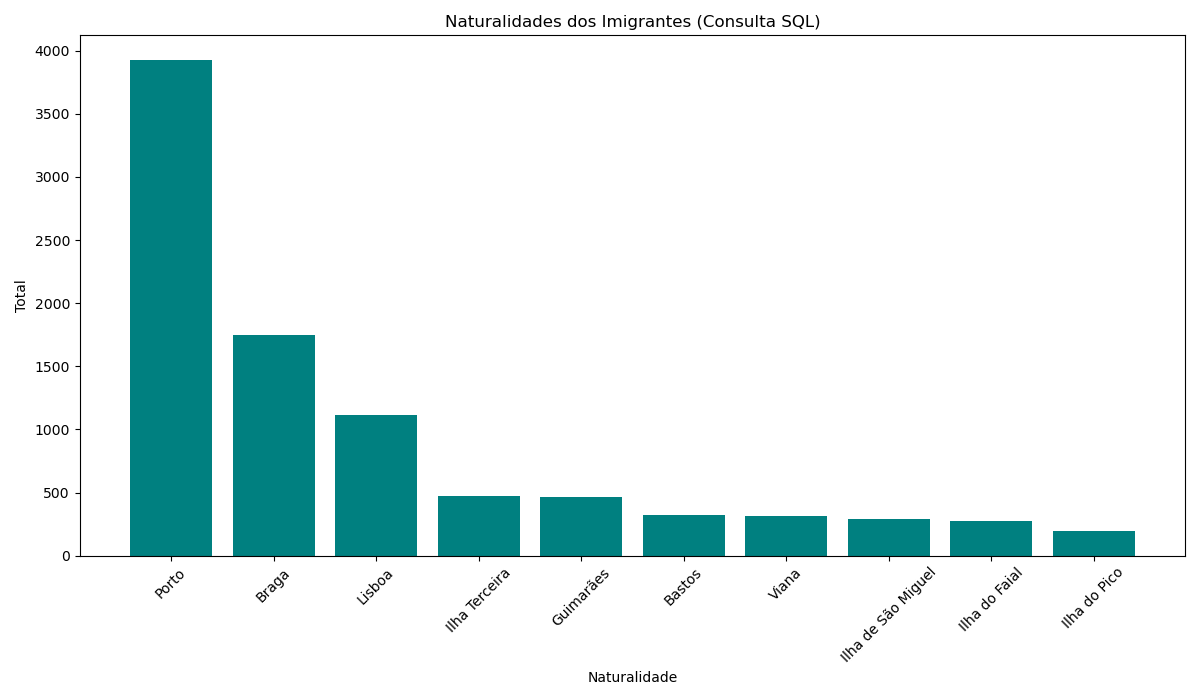
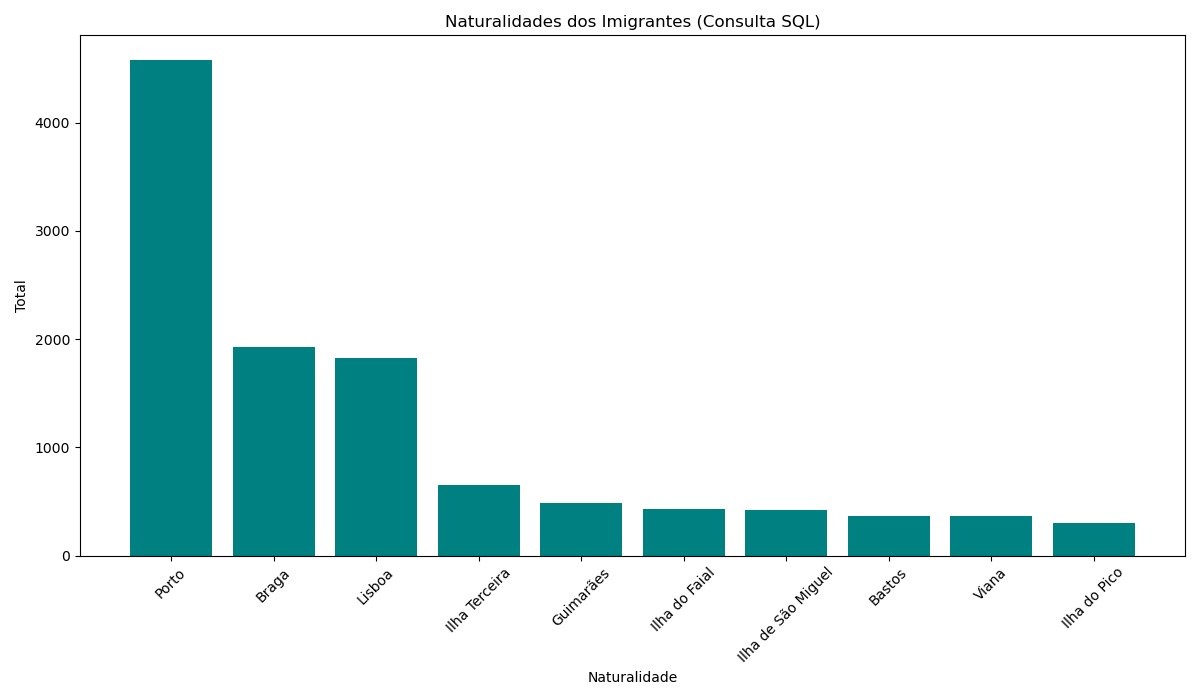
¨T4¨

diff --git a/7Semestre/ciencia_de_dados/T4/regressao_logistica.py b/7Semestre/ciencia_de_dados/T4/regressao_logistica.py
@@ -1,0 +1,50 @@
+import numpy as np
+import matplotlib.pyplot as plt
+import seaborn as sns
+from sklearn.model_selection import train_test_split
+from sklearn.preprocessing import StandardScaler
+from sklearn.linear_model import LogisticRegression
+from sklearn.metrics import accuracy_score, confusion_matrix
+
+def executar_regressao_logistica(df):
+    print("\n--- 3. Regressão Logística ---")
+    X = df[['IDADE']]
+    y = df['IS_SOLTEIRO']
+
+    X_train, X_test, y_train, y_test = train_test_split(X, y, test_size=0.3, random_state=42)
+    
+    scaler = StandardScaler()
+    X_train_scaled = scaler.fit_transform(X_train)
+    X_test_scaled = scaler.transform(X_test)
+
+    modelo = LogisticRegression()
+    modelo.fit(X_train_scaled, y_train)
+    y_pred = modelo.predict(X_test_scaled)
+    
+    acc = accuracy_score(y_test, y_pred)
+    print(f"Acurácia: {acc:.4f}")
+
+    X_test_sorted = np.sort(X_test['IDADE'].values)
+    X_test_sorted_scaled = scaler.transform(X_test_sorted.reshape(-1, 1))
+    probabilidades = modelo.predict_proba(X_test_sorted_scaled)[:, 1]
+
+    plt.figure(figsize=(10, 6))
+    plt.scatter(X_test['IDADE'], y_test, color='blue', alpha=0.1, label='Dados Reais (0=Não Solteiro, 1=Solteiro)')
+    plt.plot(X_test_sorted, probabilidades, color='red', linewidth=2, label='Probabilidade de ser Solteiro')
+    plt.title('Regressão Logística: Probabilidade de ser Solteiro por Idade')
+    plt.xlabel('Idade')
+    plt.ylabel('Probabilidade / Classe')
+    plt.legend()
+    plt.grid(True, linestyle='--', alpha=0.7)
+    plt.savefig('1regressao_logistica_curva.png')
+    plt.close()
+    
+    cm = confusion_matrix(y_test, y_pred)
+    plt.figure(figsize=(6, 5))
+    sns.heatmap(cm, annot=True, fmt='d', cmap='Blues', xticklabels=['Outro', 'Solteiro'], yticklabels=['Outro', 'Solteiro'])
+    plt.title('Regressão Logística: Matriz de Confusão')
+    plt.ylabel('Real')
+    plt.xlabel('Previsto')
+    plt.savefig('1regressao_logistica_matriz.png')
+    plt.close()
+    print("Gráficos de Regressão Logística salvos.")

diff --git a/7Semestre/ciencia_de_dados/T4/regressao_linear_multipla.py b/7Semestre/ciencia_de_dados/T4/regressao_linear_multipla.py
@@ -1,0 +1,34 @@
+import matplotlib.pyplot as plt
+from sklearn.model_selection import train_test_split
+from sklearn.preprocessing import StandardScaler
+from sklearn.linear_model import LinearRegression
+from sklearn.metrics import mean_squared_error, r2_score
+
+def executar_regressao_multipla(df):
+    print("\n--- 2. Regressão Linear Múltipla ---")
+    X = df[['ANO_CHEGADA', 'ANO_REGISTRO']]
+    y = df['IDADE']
+
+    X_train, X_test, y_train, y_test = train_test_split(X, y, test_size=0.3, random_state=42)
+    
+    scaler = StandardScaler()
+    X_train_scaled = scaler.fit_transform(X_train)
+    X_test_scaled = scaler.transform(X_test)
+
+    modelo = LinearRegression()
+    modelo.fit(X_train_scaled, y_train)
+    y_pred = modelo.predict(X_test_scaled)
+    
+    print(f"MSE: {mean_squared_error(y_test, y_pred):.2f}")
+    print(f"R²: {r2_score(y_test, y_pred):.4f}")
+
+    plt.figure(figsize=(10, 6))
+    plt.scatter(y_test, y_pred, color='purple', alpha=0.5)
+    plt.plot([y_test.min(), y_test.max()], [y_test.min(), y_test.max()], 'k--', lw=2)
+    plt.title('Regressão Múltipla: Valores Reais vs Previsões (Idade)')
+    plt.xlabel('Idade Real')
+    plt.ylabel('Idade Prevista')
+    plt.grid(True, linestyle='--', alpha=0.7)
+    plt.savefig('1regressao_multipla.png')
+    plt.close()
+    print("Gráfico 'regressao_multipla.png' salvo.")

diff --git a/7Semestre/ciencia_de_dados/T4/knn.py b/7Semestre/ciencia_de_dados/T4/knn.py
@@ -1,0 +1,35 @@
+import matplotlib.pyplot as plt
+import seaborn as sns
+from sklearn.model_selection import train_test_split
+from sklearn.preprocessing import StandardScaler
+from sklearn.neighbors import KNeighborsClassifier
+from sklearn.metrics import accuracy_score, confusion_matrix
+
+def executar_knn(df):
+    print("\n--- 4. KNN (K-Nearest Neighbors) ---")
+    X = df[['IDADE', 'ANO_CHEGADA']]
+    y = df['IS_SOLTEIRO']
+
+    X_train, X_test, y_train, y_test = train_test_split(X, y, test_size=0.3, random_state=42)
+    
+    scaler = StandardScaler()
+    X_train_scaled = scaler.fit_transform(X_train)
+    X_test_scaled = scaler.transform(X_test)
+
+    modelo = KNeighborsClassifier(n_neighbors=5)
+    modelo.fit(X_train_scaled, y_train)
+    y_pred = modelo.predict(X_test_scaled)
+    
+    acc = accuracy_score(y_test, y_pred)
+    print(f"Acurácia: {acc:.4f}")
+
+    cm = confusion_matrix(y_test, y_pred)
+    plt.figure(figsize=(6, 5))
+    sns.heatmap(cm, annot=True, fmt='d', cmap='Greens', xticklabels=['Outro', 'Solteiro'], yticklabels=['Outro', 'Solteiro'])
+    plt.title(f'KNN (K=5): Matriz de Confusão\nAcurácia: {acc:.2%}')
+    plt.ylabel('Real')
+    plt.xlabel('Previsto')
+    plt.tight_layout()
+    plt.savefig('1knn_matriz.png')
+    plt.close()
+    print("Gráfico 'knn_matriz.png' salvo.")

diff --git a/7Semestre/ciencia_de_dados/T4/regressao_linear_simples.py b/7Semestre/ciencia_de_dados/T4/regressao_linear_simples.py
@@ -1,0 +1,30 @@
+import matplotlib.pyplot as plt
+from sklearn.model_selection import train_test_split
+from sklearn.linear_model import LinearRegression
+from sklearn.metrics import mean_squared_error, r2_score
+
+def executar_regressao_simples(df):
+    print("\n--- 1. Regressão Linear Simples ---")
+    X = df[['ANO_CHEGADA']]
+    y = df['IDADE']
+
+    X_train, X_test, y_train, y_test = train_test_split(X, y, test_size=0.3, random_state=42)
+    
+    modelo = LinearRegression()
+    modelo.fit(X_train, y_train)
+    y_pred = modelo.predict(X_test)
+    
+    print(f"MSE: {mean_squared_error(y_test, y_pred):.2f}")
+    print(f"R²: {r2_score(y_test, y_pred):.4f}")
+
+    plt.figure(figsize=(10, 6))
+    plt.scatter(X_test, y_test, color='blue', alpha=0.5, label='Dados Reais')
+    plt.plot(X_test, y_pred, color='red', linewidth=2, label='Linha de Regressão')
+    plt.title('Regressão Linear Simples: Idade vs Ano de Chegada')
+    plt.xlabel('Ano de Chegada')
+    plt.ylabel('Idade')
+    plt.legend()
+    plt.grid(True, linestyle='--', alpha=0.7)
+    plt.savefig('1regressao_linear_simples.png')
+    plt.close()
+    print("Gráfico 'regressao_linear_simples.png' salvo.")

diff --git a/7Semestre/ciencia_de_dados/T4/1main2.py b/7Semestre/ciencia_de_dados/T4/1main2.py
@@ -1,0 +1,33 @@
+import pandas as pd
+import os
+from regressao_linear_simples import executar_regressao_simples
+from regressao_linear_multipla import executar_regressao_multipla
+from regressao_logistica import executar_regressao_logistica
+from knn import executar_knn
+
+def carregar_dados():
+    caminho_dados = 'Luso_filtrado.json'
+
+    df = pd.read_json(caminho_dados)
+    # Pré-processamento
+    df = df.dropna(subset=['IDADE', 'ANO_CHEGADA', 'ANO_REGISTRO', 'ESTADO_CIVIL']).copy()
+    df = df[(df['IDADE'] >= 0) & (df['IDADE'] <= 100)]
+    #df = df['IDADE'] <= 100
+    df['IS_SOLTEIRO'] = df['ESTADO_CIVIL'].apply(lambda x: 1 if str(x).strip().lower() == 'solteiro' else 0)
+    
+    print(f"Dados carregados e pré-processados: {len(df)} registros.")
+    return df
+
+def main():
+    print("a")
+    df = carregar_dados()
+
+    executar_regressao_simples(df)
+    executar_regressao_multipla(df)
+    executar_regressao_logistica(df)
+    executar_knn(df)
+    
+    print("\nTodos os modelos foram executados com sucesso")
+
+if __name__ == "__main__":
+    main()
